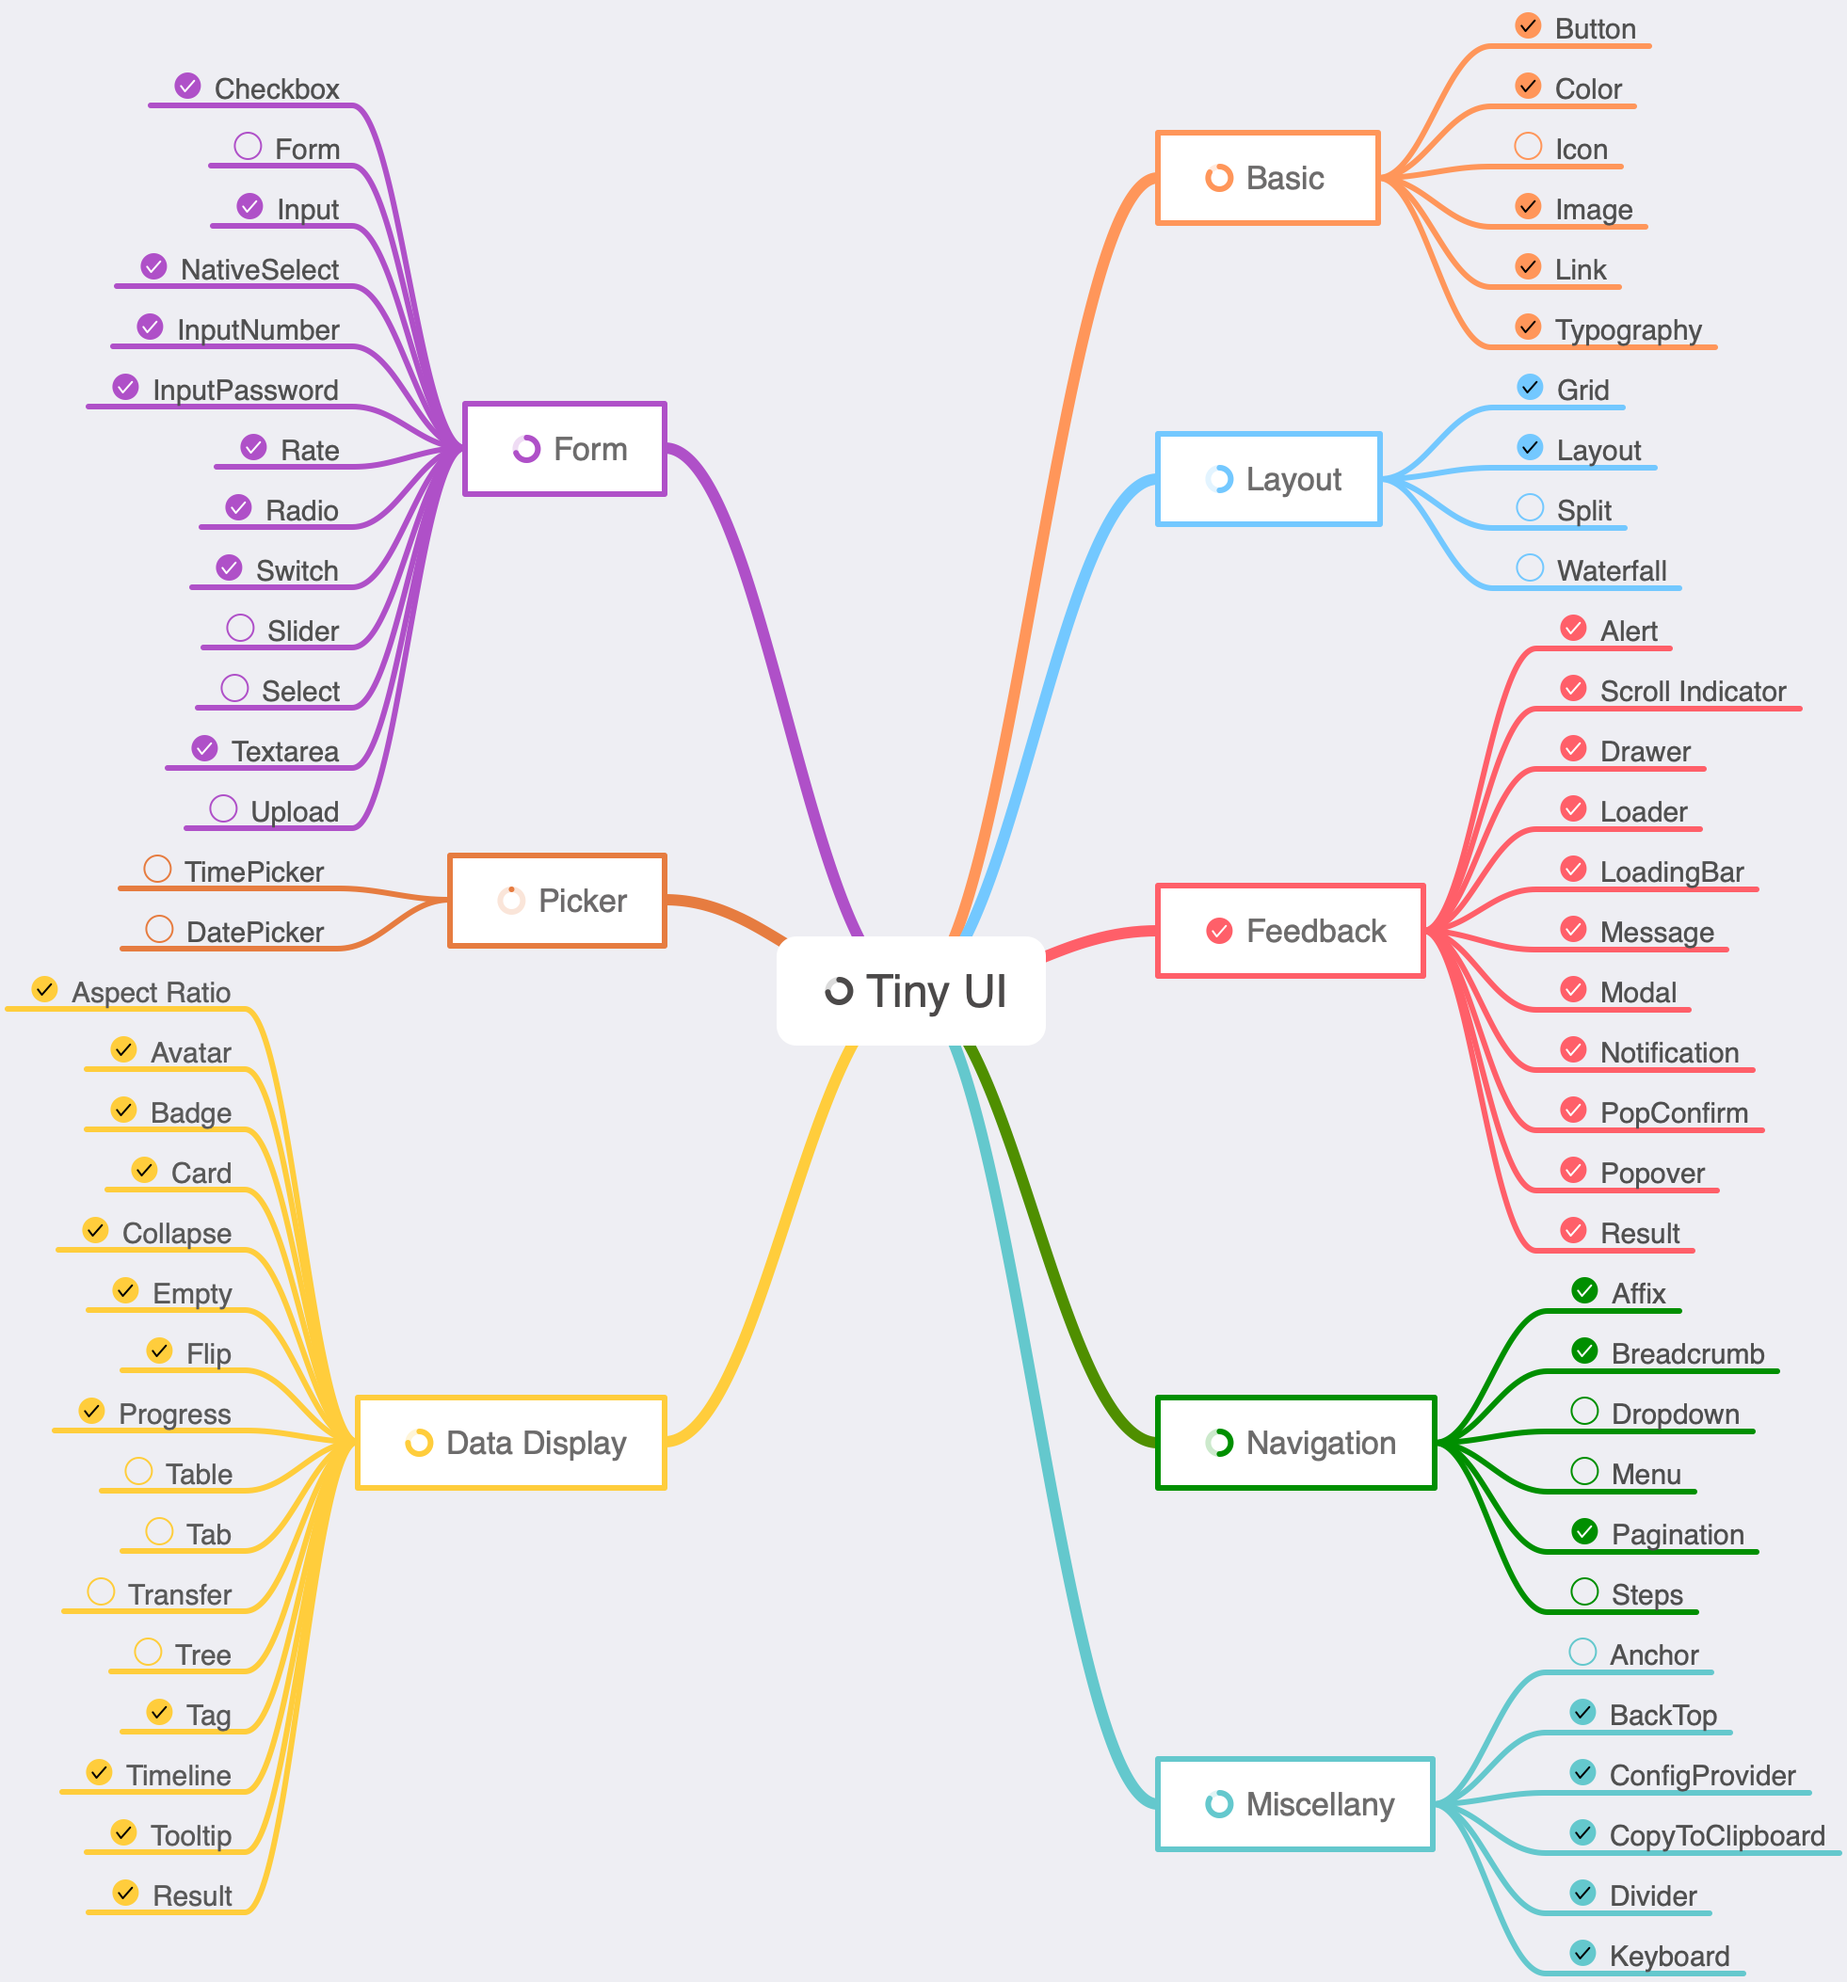
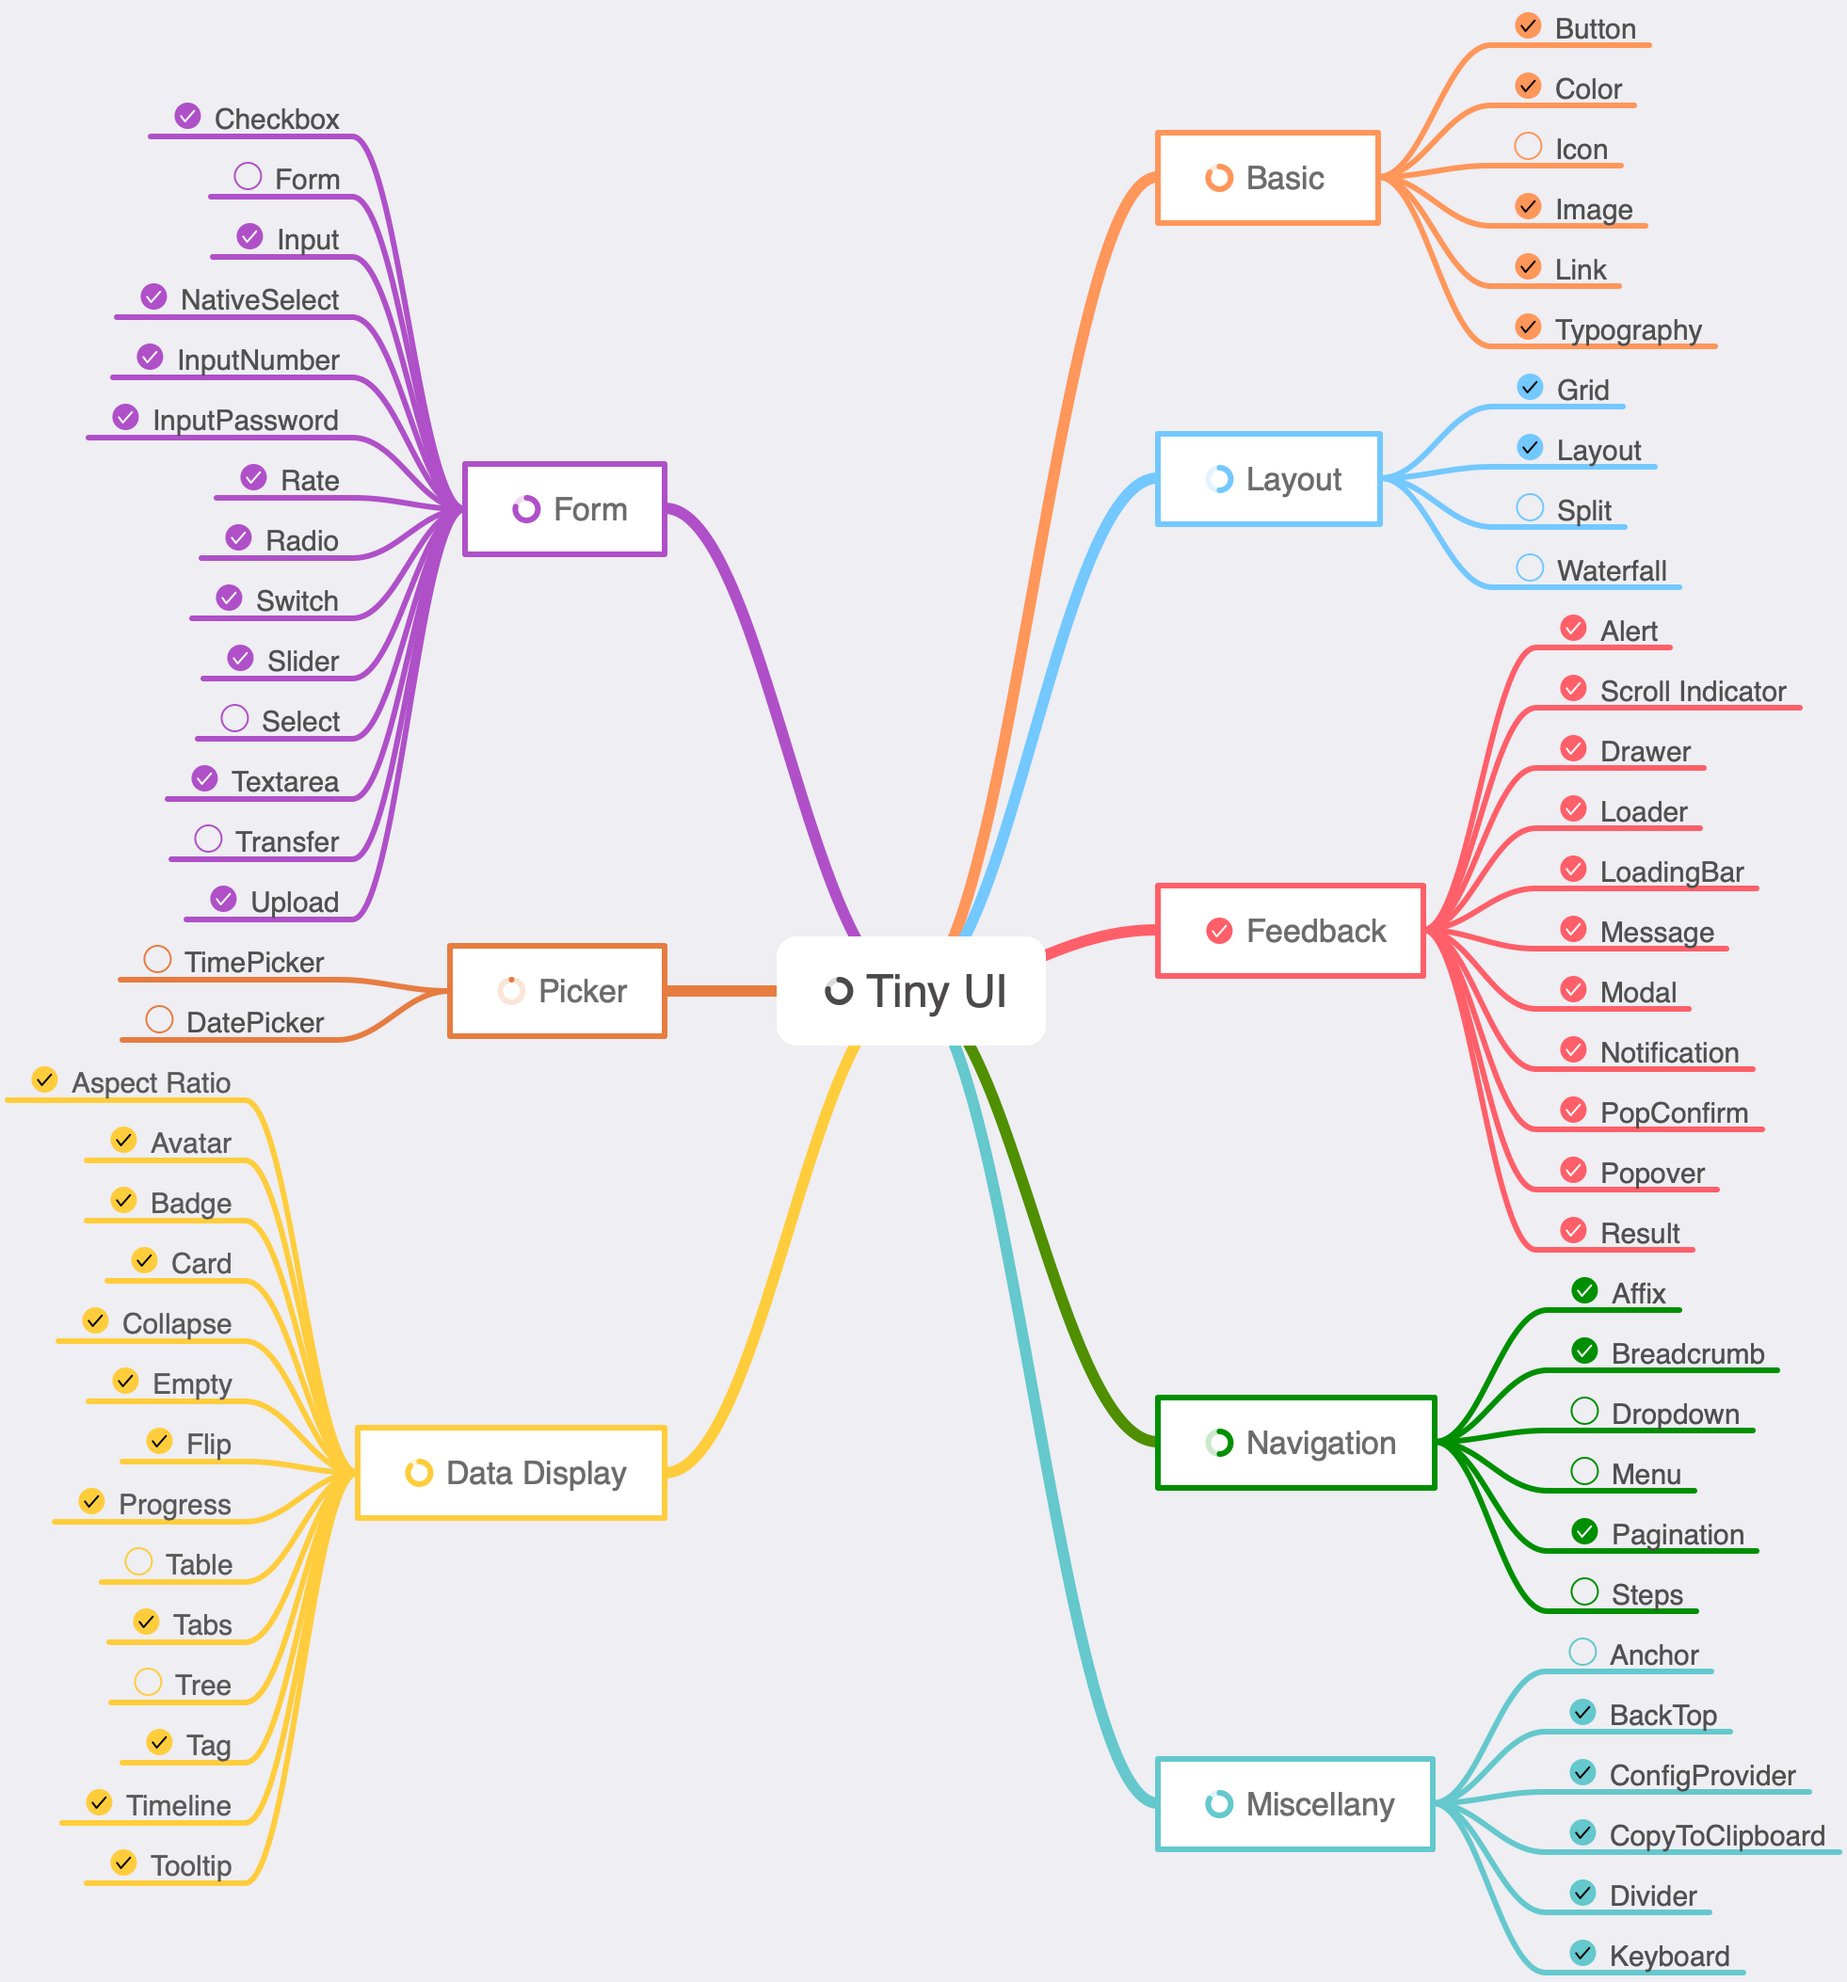
WIP: UploadList component

diff --git a/components/upload/upload-list.tsx b/components/upload/upload-list.tsx
@@ -1,0 +1,59 @@
+import React from 'react';
+import { UploadFile } from './types';
+import { CheckCircle, CloseCircle, LoadingCircle, PaperClip } from '../_utils/components';
+import Progress from '../progress';
+
+type UploadListProps = {
+  prefixCls: string;
+  fileList: UploadFile[];
+  onRemove: (file: UploadFile) => void;
+};
+
+const UploadList = (props: UploadListProps): JSX.Element => {
+  const { prefixCls, fileList, onRemove } = props;
+
+  return (
+    <ul className={`${prefixCls}__upload-list`}>
+      {fileList.map((file) => {
+        const { uid, name, status, percent } = file;
+        return (
+          <li key={uid} className={`${prefixCls}__upload-list-item`}>
+            <div className={`${prefixCls}__upload-list-item-container`}>
+              <PaperClip size={11} color="rgba(0, 0, 0, 0.45)" />
+              <span className={`${prefixCls}__upload-list-item-name`}>{name}</span>
+              <span className={`${prefixCls}__upload-list-item-status`}>
+                {status === 'done' && <CheckCircle color="#52c41a" size={16} />}
+                {status === 'error' && <CloseCircle color="#f44336" size={16} />}
+                {status === 'uploading' && (
+                  <LoadingCircle
+                    style={{ animation: 'ty-rotate 1s linear infinite' }}
+                    color="#1890ff"
+                    size={16}
+                  />
+                )}
+              </span>
+              <span
+                className={`${prefixCls}__upload-list-item-delete`}
+                onClick={(): void => onRemove && onRemove(file)}>
+                ✕
+              </span>
+            </div>
+            {status === 'uploading' && (
+              <Progress.Bar
+                strokeColor="blue"
+                percent={percent}
+                showInfo={false}
+                style={{ marginTop: 5 }}
+                strokeWidth={2}
+              />
+            )}
+          </li>
+        );
+      })}
+    </ul>
+  );
+};
+
+UploadList.displayName = 'UploadList';
+
+export default UploadList;

diff --git a/site/src/routers.tsx b/site/src/routers.tsx
@@ -79,6 +79,11 @@ export const COMPONENT_MENU: RouterItem[] = [
     title: 'Layout',
     children: [
       {
+        title: 'Aspect Ratio',
+        route: 'aspect-ratio',
+        component: lazy(() => import('../../components/aspect-ratio/index.md')),
+      },
+      {
         title: 'Grid',
         route: 'grid',
         component: lazy(() => import('../../components/row/index.md')),
@@ -112,11 +117,6 @@ export const COMPONENT_MENU: RouterItem[] = [
   {
     title: 'Data Display',
     children: [
-      {
-        title: 'Aspect Ratio',
-        route: 'aspect-ratio',
-        component: lazy(() => import('../../components/aspect-ratio/index.md')),
-      },
       {
         title: 'Avatar',
         route: 'avatar',
@@ -235,6 +235,11 @@ export const COMPONENT_MENU: RouterItem[] = [
         title: 'Textarea',
         route: 'textarea',
         component: lazy(() => import('../../components/textarea/index.md')),
+      },
+      {
+        title: 'Upload',
+        route: 'upload',
+        component: lazy(() => import('../../components/upload/index.md')),
       },
     ],
   },
